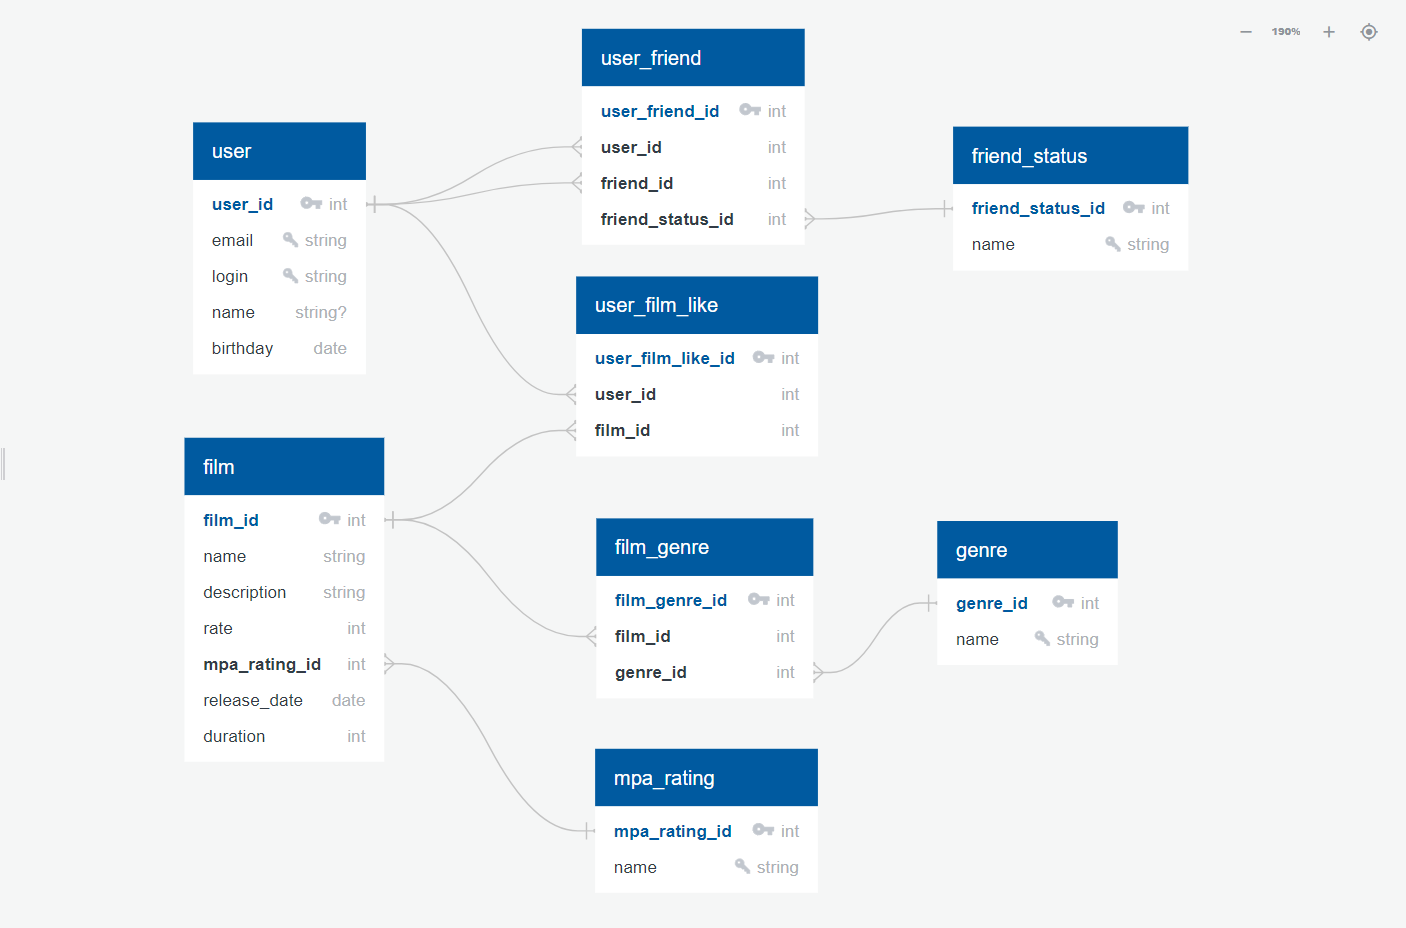
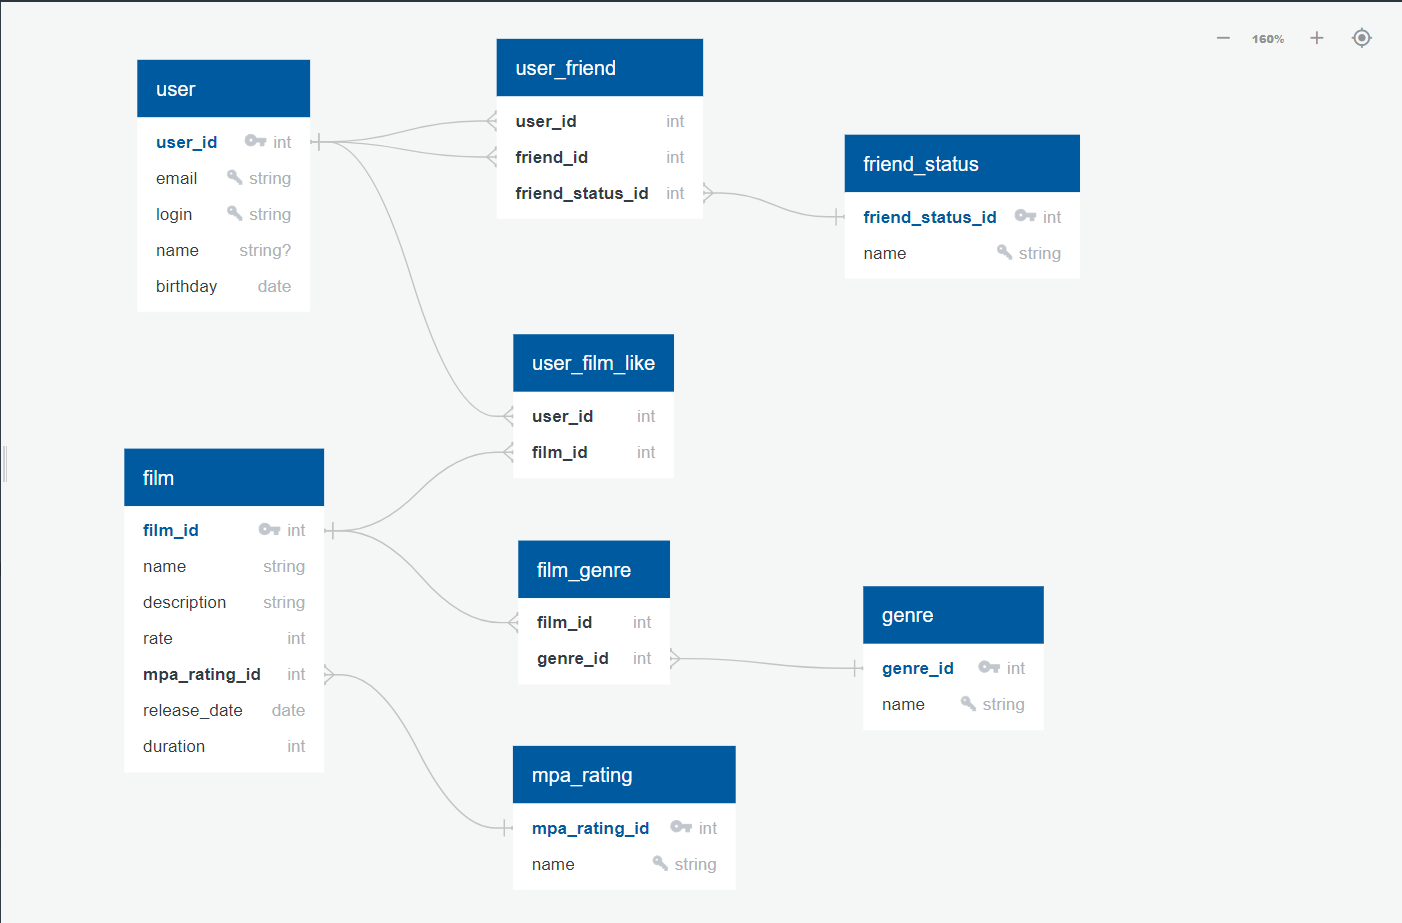
DB scheme PK indexes imprmnts

diff --git a/README.md b/README.md
@@ -3,7 +3,7 @@
 Этот документ описывает схему базы данных, предназначенной для хранения информации о фильмах, пользователях, жанрах, рейтингах, а также связях, таких как отметки "нравится", дружба и жанры фильмов. А так же примеры запросов.
 
 ### Визуальная схема таблицы
-![Filmorate Database Scheme](https://github.com/microgoose/filmorate-db-scheme/blob/28e5f34044cf5ff6fe6ba318a01f7015949fa161/filmorate-scheme-db.png)
+![Filmorate Database Scheme](https://github.com/microgoose/filmorate-db-scheme/blob/cc4b1aff5deb7e6d36a4993165a63509a950483e/filmorate-scheme-db.png)
 
 ## Описание таблиц
 
@@ -30,14 +30,12 @@
 ### `user_film_like`
 Хранит информацию о фильмах, которые понравились пользователям.
 
-- **user_film_like_id** `int` (Первичный ключ): Уникальный идентификатор записи "нравится".
 - **user_id** `int` (Внешний ключ >- `user.user_id`): Идентификатор пользователя, которому нравится фильм.
 - **film_id** `int` (Внешний ключ >- `film.film_id`): Идентификатор фильма, который понравился.
 
 ### `user_friend`
 Хранит информацию о дружеских связях между пользователями.
 
-- **user_friend_id** `int` (Первичный ключ): Уникальный идентификатор записи о дружбе.
 - **user_id** `int` (Внешний ключ >- `user.user_id`): Идентификатор пользователя.
 - **friend_id** `int` (Внешний ключ >- `user.user_id`): Идентификатор друга.
 - **friend_status_id** `int` (Внешний ключ >- `friend_status.friend_status_id`): Идентификатор статуса дружбы.
@@ -51,7 +49,6 @@
 ### `film_genre`
 Отображает связи между фильмами и их жанрами.
 
-- **film_genre_id** `int` (Первичный ключ): Уникальный идентификатор записи о связи фильма с жанром.
 - **film_id** `int` (Внешний ключ >- `film.film_id`): Идентификатор фильма.
 - **genre_id** `int` (Внешний ключ >- `genre.genre_id`): Идентификатор жанра.
 
